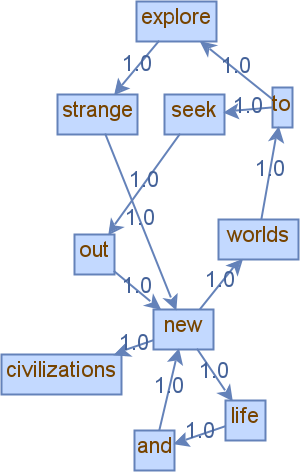
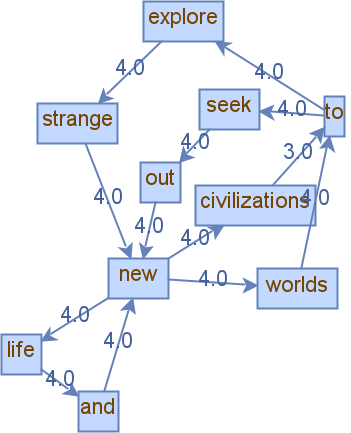
提交

diff --git a/src/main/java/Main.java b/src/main/java/Main.java
@@ -97,7 +97,7 @@ public class Main extends JFrame {
         mxIGraphLayout layout = new mxOrganicLayout(graphAdapter);
         layout.execute(graphAdapter.getDefaultParent());
         frame.add(new mxGraphComponent(graphAdapter));
-        frame.setSize(new Dimension(800, 600));
+        frame.setSize(800, 600);
         frame.pack();
         frame.setLocationByPlatform(true);
         frame.setVisible(true);
@@ -143,10 +143,10 @@ public class Main extends JFrame {
         } else return res;
     }
 
-    public static void printBridge(ArrayList<String> res) {
+    public static void printBridge(ArrayList<String> res,String word1, String word2) {
         if (res.isEmpty()) System.out.println("No bridge words from word1 to word2!");
         else {
-            System.out.println("The bridge words from word1 to word2 are:");
+            System.out.println("The bridge words from "+ word1+ " to "+ word2+" are:");
             for (String s : res) System.out.println(s);
         }
     }
@@ -187,6 +187,7 @@ public class Main extends JFrame {
         HashMap<String, String> route = new HashMap<String, String>();
         String shortest_name = "";
         int shortest_int = 0xffff;
+        if(!aid.containsKey(word1)) return "unreachable";
         for (String str : aid.get(word1)) {
             String combine = word1 + "_" + str;
             distance.put(str, site.get(combine));
@@ -280,25 +281,22 @@ public class Main extends JFrame {
                 try {
                     String text = inputTextArea.getText();
                     String[] lines = readFromString(text);
-                    site = counting(lines);
                     // 读入文本，1
-                    showDirectedGraph(site);
+                    site = counting(lines);
                     // 展示图，2
+                    showDirectedGraph(site);
                     aid = preProcess(site);
-
-                    ArrayList<String> bri = queryBridgeWords("new", "to");
-
-                    printBridge(bri);
                     // 查询桥接词,3
+                    ArrayList<String> bri = queryBridgeWords("seek", "new");
+                    printBridge(bri, "seek", "new");
                     bridge = buildBridge();
-
-                    generateNewText("Seek to explore new and exciting synergies");
                     // 生成新文本，4
-                    System.out.println(calcShortestPath("to", "and"));
+                    generateNewText("explore strange new worlds,seek life and civilizations");
                     // 计算最短路径，5
-                    System.out.println(randomWalk());
+                    System.out.println(calcShortestPath("civilizations", "and"));
                     // 随机游走， 6
-                    System.out.println("Text processed.");
+                    System.out.println(randomWalk());
+                    System.out.println("-----------Text processed-----------");
                 } catch (Exception ex) {
                     ex.printStackTrace();
                 }
